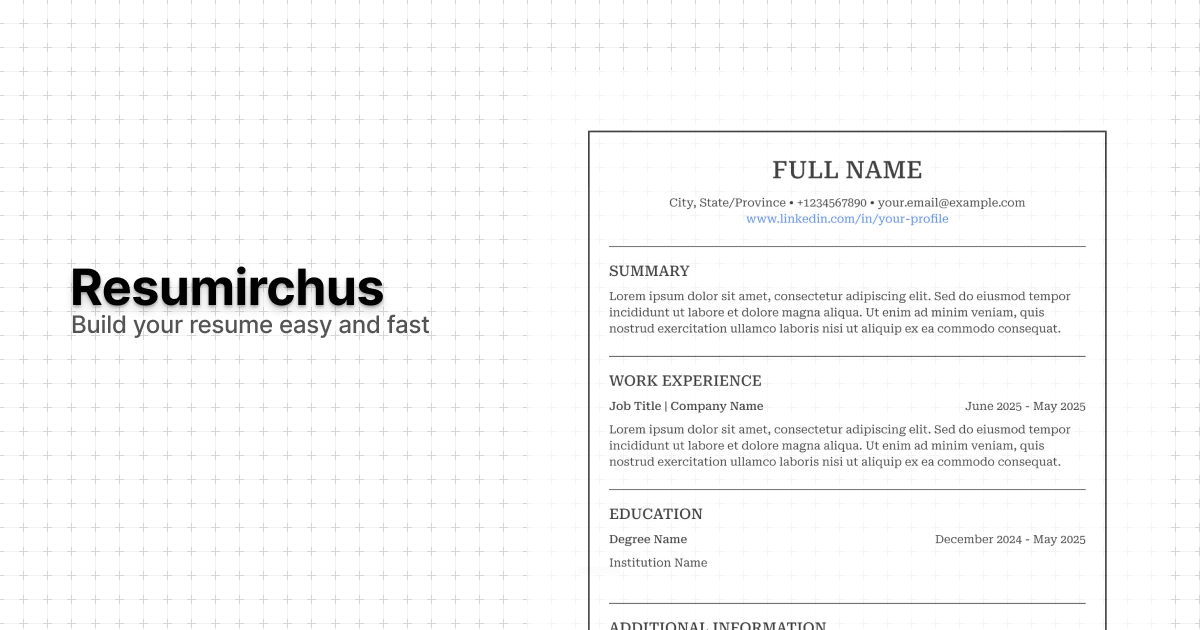
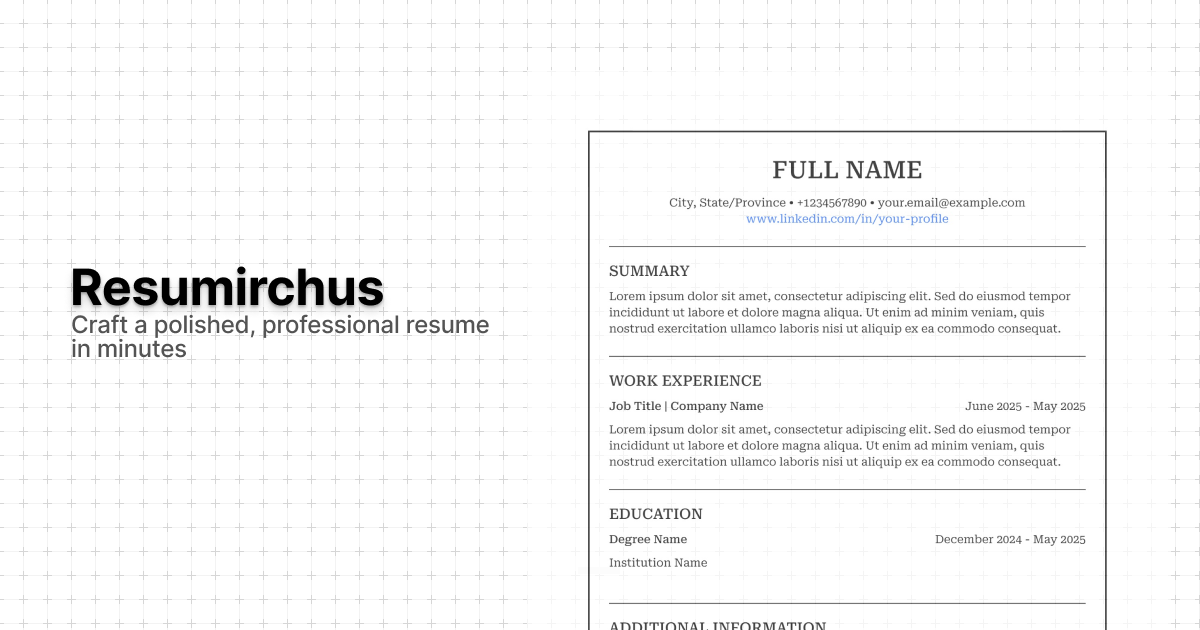
feat: actualizar contenido y diseño de la página principal
Se mejoró el texto y la estructura de la página principal, enfatizando las características del generador de currículums. Se actualizaron los encabezados y descripciones para reflejar mejor la propuesta de valor del servicio. Además, se modificó la imagen de Open Graph para alinearse con la nueva identidad visual del proyecto.

Changed region(s): [[0.0617, 0.4825, 0.4008, 0.573]]

diff --git a/src/app/(landing)/page.tsx b/src/app/(landing)/page.tsx
@@ -30,11 +30,13 @@ export default function MainPage() {
                   <span className="font-medium">Introducing AI Summary</span>
                 </Link>
                 <h1 className="mx-auto mt-8 max-w-3xl text-balance text-4xl font-bold tracking-tight sm:text-5xl">
-                  Build your Resume 10x Faster
+                  Build Your Resume 10x Faster with AI
                 </h1>
                 <p className="text-muted-foreground mx-auto my-6 max-w-xl text-balance text-xl">
-                  Create a professional resume in minutes with our AI-powered
-                  resume builder.
+                  Craft a polished, professional resume in minutes using our
+                  cutting-edge, AI-powered resume builder. No more endless
+                  formatting or worrying about structure—just the perfect
+                  resume, every time.
                 </p>
 
                 <div className="flex items-center justify-center gap-3">
@@ -69,10 +71,12 @@ export default function MainPage() {
           className="flex flex-col items-start justify-start container mx-auto border pb-32 border-dashed py-32"
         >
           <h1 className="mx-auto mt-8 max-w-7xl text-balance text-start text-4xl font-bold tracking-tight sm:text-5xl">
-            Features
+            Features That Set Us Apart
           </h1>
           <p className="text-muted-foreground mx-auto my-6 max-w-xl text-balance text-xl">
-            Our resume builder is free to use and there are no hidden fees.
+            Our resume builder isn’t just another tool—it’s your gateway to
+            crafting the perfect resume with ease. No hidden fees, no paywalls,
+            just simple, fast, and effective resume building for everyone.
           </p>
           <div className="grid grid-cols-1 lg:grid-cols-3 gap-4 max-w-7xl mx-auto w-full">
             <WobbleCard
@@ -81,11 +85,13 @@ export default function MainPage() {
             >
               <div className="max-w-xs">
                 <h2 className="text-left text-balance text-base md:text-xl lg:text-3xl font-semibold tracking-[-0.015em] text-white">
-                  AI powers your summary
+                  AI-Powered Summaries
                 </h2>
                 <p className="mt-4 text-left  text-base/6 text-neutral-200">
-                  Our AI-powered resume builder uses advanced algorithms to
-                  generate a professional resume in seconds.
+                  Harness the power of AI to automatically generate professional
+                  summaries that highlight your skills and experience in the
+                  best possible way. No more worrying about word choices or
+                  formatting.
                 </p>
               </div>
               <Image
@@ -101,11 +107,12 @@ export default function MainPage() {
               className="bg-[#735728]"
             >
               <h2 className="max-w-80 text-left text-balance text-base md:text-xl lg:text-3xl font-semibold tracking-[-0.015em] text-white">
-                Best Design
+                A Sleek, Professional Design
               </h2>
               <p className="mt-4 max-w-[26rem] text-left  text-base/6 text-neutral-200">
-                Our resume builder uses the best design templates to create a
-                professional resume.
+                Your resume will stand out with our beautifully designed
+                templates, optimized for both aesthetics and functionality,
+                ensuring you look professional without the hassle.
               </p>
               <Image
                 src="/resume.png"
@@ -121,11 +128,12 @@ export default function MainPage() {
             >
               <div className="max-w-sm">
                 <h2 className="max-w-sm md:max-w-lg  text-left text-balance text-base md:text-xl lg:text-3xl font-semibold tracking-[-0.015em] text-white">
-                  No Paywall, No Hidden Fees
+                  Completely Free, No Strings Attached
                 </h2>
                 <p className="mt-4 max-w-[26rem] text-left  text-base/6 text-neutral-200">
-                  Our resume builder is free to use and there are no hidden
-                  fees.
+                  We believe in making this tool accessible to everyone. There
+                  are no hidden charges or paywalls—use it for as long as you
+                  want, without worrying about unexpected costs.
                 </p>
               </div>
               <Image
@@ -145,7 +153,7 @@ export default function MainPage() {
           <div className="mx-auto max-w-5xl px-6">
             <div className="mx-auto max-w-2xl text-center">
               <h2 className="text-balance text-3xl font-bold md:text-4xl lg:text-5xl">
-                Start building your resume today
+                Start Building Your Perfect Resume Today
               </h2>
             </div>
             <div className="mt-8 md:mt-20">
@@ -153,28 +161,31 @@ export default function MainPage() {
                 <div className="grid items-center gap-12 divide-y p-12 md:grid-cols-2 md:divide-x md:divide-y-0">
                   <div className="pb-12 text-center md:pb-0 md:pr-12">
                     <h3 className="text-2xl font-semibold">Free</h3>
-                    <p className="mt-2 text-lg">For your resume of any size</p>
+                    <p className="mt-2 text-lg">
+                      Create a resume of any size without any hidden fees
+                    </p>
                     <span className="mb-6 mt-12 inline-block text-6xl font-bold">
                       <span className="text-4xl">$</span>0
                     </span>
 
                     <div className="flex justify-center">
                       <Button asChild size="lg">
-                        <Link href="/builder">Get started</Link>
+                        <Link href="/builder">Get Started</Link>
                       </Button>
                     </div>
 
                     <p className="text-muted-foreground mt-12 text-sm">
-                      Includes : no cards, no registration. FREE
+                      No cards, no registration—just a free service with
+                      unlimited access.
                     </p>
                   </div>
                   <div className="relative">
                     <ul role="list" className="space-y-4">
                       {[
-                        "AI Summary",
-                        "Design Easy to use",
-                        "All in one",
-                        "Export to PDF, PNG or JPG",
+                        "AI-Powered Summary Creation",
+                        "Sleek & Professional Design Templates",
+                        "One-Click Export to PDF, PNG, or JPG",
+                        "Unlimited Use—No Hidden Fees",
                       ].map((item, index) => (
                         <li key={index} className="flex items-center gap-2">
                           <Check className="size-3" />
@@ -183,8 +194,8 @@ export default function MainPage() {
                       ))}
                     </ul>
                     <p className="text-muted-foreground mt-6 text-sm">
-                      We offer this for free, it&apos;s a free service for
-                      everyone.
+                      Everything you need to create your perfect resume—free of
+                      charge.
                     </p>
                   </div>
                 </div>
@@ -204,21 +215,21 @@ export default function MainPage() {
                   <br className="hidden lg:block" />
                   Questions
                 </h2>
-                <p>We are here to help you with any questions you may have.</p>
+                <p>We’re here to answer all your questions—no matter what!</p>
               </div>
 
               <div className="divide-y divide-dashed sm:mx-auto sm:max-w-lg lg:mx-0">
                 <div className="pb-6">
                   <h3 className="font-medium">How can I contact you?</h3>
                   <p className="text-muted-foreground mt-4">
-                    You can contact us via email or twitter for any questions or
-                    concerns you may have.
+                    You can easily reach us by email or Twitter for any
+                    questions or concerns.
                   </p>
 
                   <ol className="list-outside list-decimal space-y-2 pl-4">
                     <li className="text-muted-foreground mt-4">
                       Email:{" "}
-                      <a href="mailto:contact@gippity.com">
+                      <a href="mailto:contact@resumirchus.emirchus.ar">
                         contact@resumirchus.emirchus.ar
                       </a>
                     </li>
@@ -228,16 +239,17 @@ export default function MainPage() {
                   </ol>
                 </div>
                 <div className="py-6">
-                  <h3 className="font-medium">It&apos;s free?</h3>
+                  <h3 className="font-medium">Is this truly free?</h3>
                   <p className="text-muted-foreground mt-4">
-                    Yes, it&apos;s free. We offer this for free, it&apos;s a
-                    free service for everyone.
+                    Yes, absolutely! Our service is completely free with no
+                    strings attached.
                   </p>
                 </div>
                 <div className="py-6">
                   <h3 className="font-medium">How can I export my resume?</h3>
                   <p className="text-muted-foreground my-4">
-                    You can export your resume to PDF, PNG or JPG.
+                    You can export your resume in multiple formats: PDF, PNG, or
+                    JPG—all for free!
                   </p>
                   <ul className="list-outside list-disc space-y-2 pl-4">
                     <li className="text-muted-foreground">
@@ -252,19 +264,18 @@ export default function MainPage() {
                   </ul>
                 </div>
                 <div className="py-6">
-                  <h3 className="font-medium">
-                    Will it be paid in the future?
-                  </h3>
+                  <h3 className="font-medium">Will this ever become paid?</h3>
                   <p className="text-muted-foreground mt-4">
-                    No, we will not charge you for anything.
+                    No, we are committed to keeping this service free for
+                    everyone, always.
                   </p>
                 </div>
                 <div className="py-6">
-                  <h3 className="font-medium">My information is safe?</h3>
+                  <h3 className="font-medium">Is my information secure?</h3>
                   <p className="text-muted-foreground mt-4">
-                    Yes, your information is safe. We do not store any of your
-                    information. We do not use any third party services to store
-                    your information.
+                    Yes, your information is completely safe. We don’t store
+                    your data, and we never use third-party services to handle
+                    it.
                   </p>
                 </div>
               </div>

diff --git a/src/lib/config.ts b/src/lib/config.ts
@@ -1,23 +1,27 @@
-import { Raleway as FontSans, Roboto_Serif as FontSerif } from 'next/font/google';
+import {
+  Raleway as FontSans,
+  Roboto_Serif as FontSerif,
+} from "next/font/google";
 
 export const fontSans = FontSans({
-  subsets: ['latin'],
-  variable: '--font-sans',
+  subsets: ["latin"],
+  variable: "--font-sans",
 });
 
 export const fontSerif = FontSerif({
-  subsets: ['latin'],
-  variable: '--font-serif',
+  subsets: ["latin"],
+  variable: "--font-serif",
 });
 
 export const siteConfig = {
-  name: 'Resumirchus',
-  url: 'https://resumirchus.emirchus.ar',
-  ogImage: 'https://resumirchus.emirchus.ar/og.png',
-  description: 'A resume builder made by Emirchus',
+  name: "Resumirchus",
+  url: "https://resumirchus.emirchus.ar",
+  ogImage: "https://resumirchus.emirchus.ar/og.png",
+  description:
+    " Craft a polished, professional resume in minutes using our cutting-edge, AI-powered resume builder. No more endless formatting or worrying about structure—just the perfect resume, every time.",
   links: {
-    twitter: 'https://x.com/emirchus',
-    github: 'https://github.com/emirchus',
+    twitter: "https://x.com/emirchus",
+    github: "https://github.com/emirchus",
   },
 };
 
